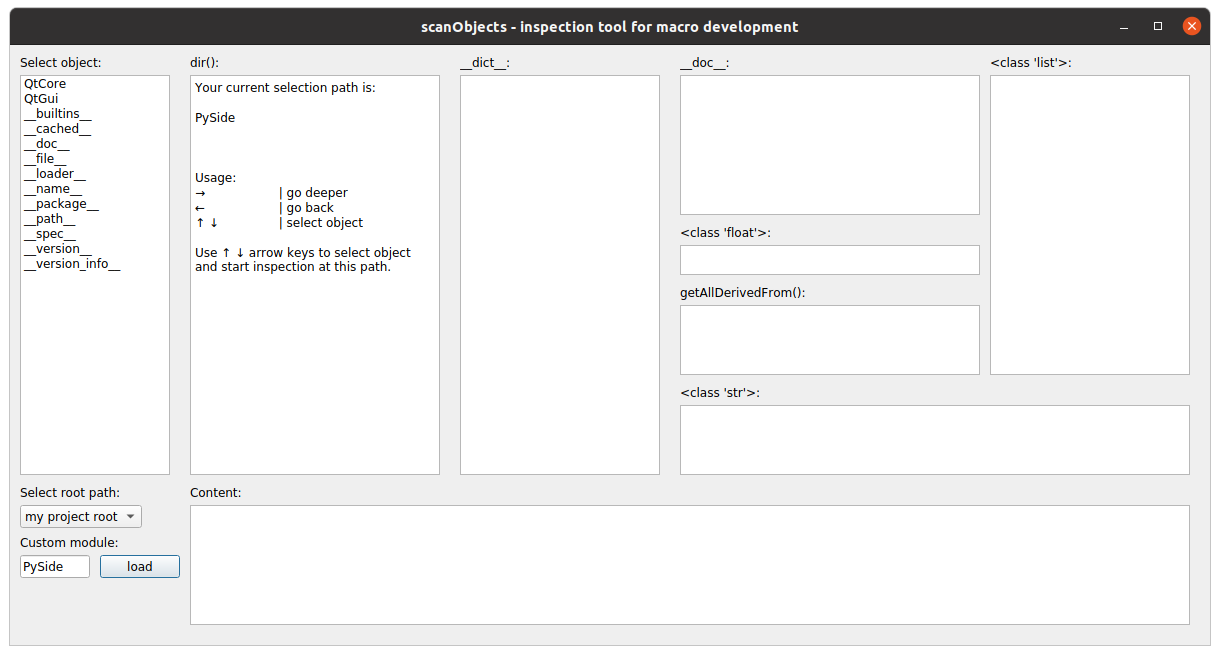
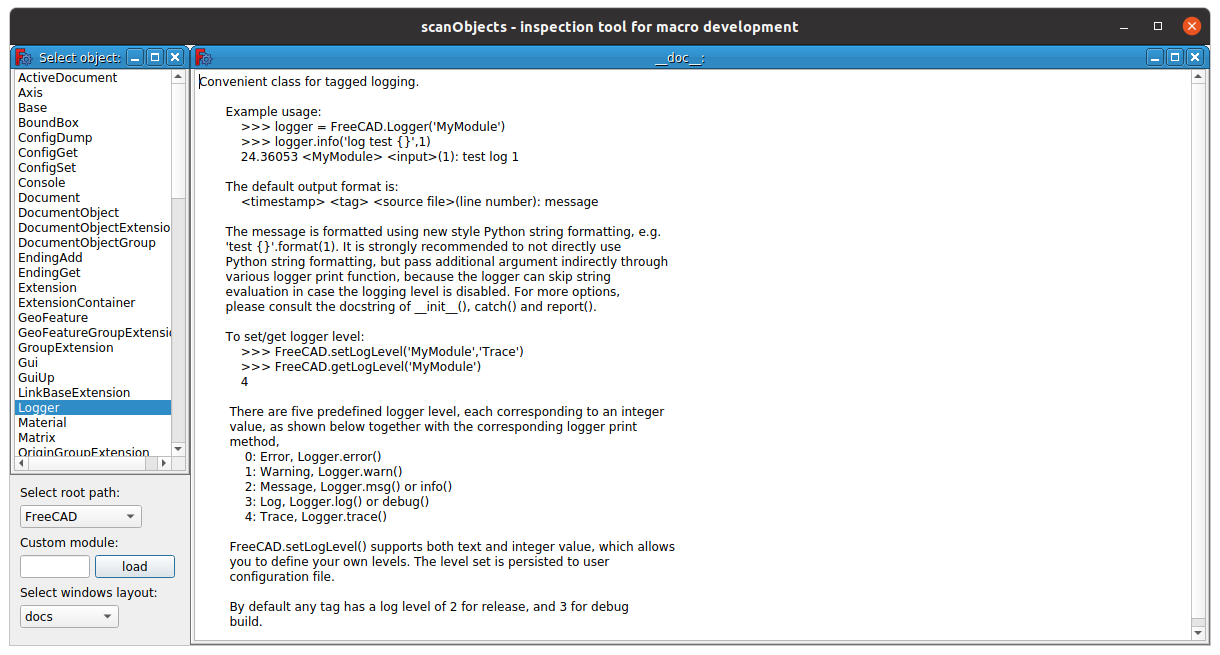
subwindows layout

diff --git a/scanObjects.py b/scanObjects.py
@@ -2,7 +2,7 @@
 
 # Inspection tool for FreeCAD macro development.
 # Author: Darek L (aka dprojects)
-# Version: 2.2
+# Version: 2.3
 # Latest version: https://github.com/dprojects/scanObjects
 
 import FreeCAD
@@ -28,7 +28,11 @@ def showQtGUI():
 		dbSI = -1 # index
 		dbSP = [] # path
 		dbSLI = [] # last index
+
+		# globals
 		defaultRoot = ""
+		gW = 1200 # width
+		gH = 600 # hight
 
 		# ############################################################################
 		# init
@@ -49,7 +53,7 @@ def showQtGUI():
 
 			# window
 			self.result = userCancelled
-			self.setGeometry(10, 10, 1200, 600)
+			self.setGeometry(10, 10, self.gW, self.gH)
 			self.setWindowTitle("scanObjects - inspection tool for macro development")
 			self.setWindowFlags(QtCore.Qt.WindowStaysOnTopHint)
 
@@ -57,14 +61,11 @@ def showQtGUI():
 			# selection view
 			# ############################################################################
 
-			# label
-			self.objectsL = QtGui.QLabel("Select object:", self)
-			self.objectsL.move(10, 10)
-			
-			self.list = QtGui.QListView(self)
-			self.list.setMinimumSize(150, 400)
-			self.list.setMaximumSize(150, 400)
-			self.list.move(10, 30)
+			self.list = QtGui.QListView()
+			self.listsw = QtGui.QMdiSubWindow(self)
+			self.listsw.setWindowTitle("Select object:")
+			self.listsw.setGeometry(0, 0, 180, 430)
+			self.listsw.setWidget(self.list)
 
 			# ############################################################################
 			# select root path
@@ -112,111 +113,109 @@ def showQtGUI():
 			# button
 			self.rootCLoad = QtGui.QPushButton("load", self)
 			self.rootCLoad.clicked.connect(self.loadCustomModule)
-			self.rootCLoad.move(90, 510)
+			self.rootCLoad.move(85, 510)
+
+			# ############################################################################
+			# select windows layout
+			# ############################################################################
+
+			# label
+			self.layL = QtGui.QLabel("Select windows layout:", self)
+			self.layL.move(10, 540)
+			
+			# options
+			self.layList = (
+				"all windows",
+				"content", 
+				"docs", 
+				"array"
+			)
+
+			self.layO = QtGui.QComboBox(self)
+			self.layO.addItems(self.layList)
+			self.layO.setCurrentIndex(self.layList.index("all windows"))
+			self.layO.activated[str].connect(self.setWindowsLayout)
+			self.layO.move(10, 560)
 
 			# ############################################################################
 			# output 1
 			# ############################################################################
 
-			# label
-			self.o1L = QtGui.QLabel("dir():", self)
-			self.o1L.move(180, 10)
-			
-			self.o1 = QtGui.QTextEdit(self)
-			self.o1.setMinimumSize(250, 400)
-			self.o1.setMaximumSize(250, 400)
-			self.o1.move(180, 30)
+			self.o1 = QtGui.QTextEdit()
+			self.o1sw = QtGui.QMdiSubWindow(self)
+			self.o1sw.setWindowTitle("dir(): & Help Window")
+			self.o1sw.setGeometry(180, 0, 260, 430)
+			self.o1sw.setWidget(self.o1)
 
 			# ############################################################################
 			# output 2
 			# ############################################################################
-
-			# label
-			self.o2L = QtGui.QLabel("__dict__:", self)
-			self.o2L.move(450, 10)
 			
-			self.o2 = QtGui.QTextEdit(self)
-			self.o2.setMinimumSize(200, 400)
-			self.o2.setMaximumSize(200, 400)
-			self.o2.move(450, 30)
-
+			self.o2 = QtGui.QTextEdit()
+			self.o2sw = QtGui.QMdiSubWindow(self)
+			self.o2sw.setWindowTitle("__dict__:")
+			self.o2sw.setGeometry(440, 0, 220, 430)
+			self.o2sw.setWidget(self.o2)
+			
 			# ############################################################################
 			# output 3
 			# ############################################################################
 
-			# label
-			self.o3L = QtGui.QLabel("__doc__:", self)
-			self.o3L.move(670, 10)
-			
-			self.o3 = QtGui.QTextEdit(self)
-			self.o3.setMinimumSize(300, 140)
-			self.o3.setMaximumSize(300, 140)
-			self.o3.move(670, 30)
+			self.o3 = QtGui.QTextEdit()
+			self.o3sw = QtGui.QMdiSubWindow(self)
+			self.o3sw.setWindowTitle("__doc__:")
+			self.o3sw.setGeometry(660, 0, 320, 150)
+			self.o3sw.setWidget(self.o3)
 
 			# ############################################################################
 			# output 4
 			# ############################################################################
 
-			# label
-			self.o4L = QtGui.QLabel("getAllDerivedFrom():", self)
-			self.o4L.move(670, 240)
-			
-			self.o4 = QtGui.QTextEdit(self)
-			self.o4.setMinimumSize(300, 70)
-			self.o4.setMaximumSize(300, 70)
-			self.o4.move(670, 260)
+			self.o4 = QtGui.QTextEdit()
+			self.o4sw = QtGui.QMdiSubWindow(self)
+			self.o4sw.setWindowTitle("getAllDerivedFrom():")
+			self.o4sw.setGeometry(660, 230, 320, 100)
+			self.o4sw.setWidget(self.o4)
 
 			# ############################################################################
 			# output 5
 			# ############################################################################
 
-			# label
-			self.o5L = QtGui.QLabel("Content:", self)
-			self.o5L.move(180, 440)
-			
-			self.o5 = QtGui.QTextEdit(self)
-			self.o5.setMinimumSize(1000, 120)
-			self.o5.setMaximumSize(1000, 120)
-			self.o5.move(180, 460)
+			self.o5 = QtGui.QTextEdit()
+			self.o5sw = QtGui.QMdiSubWindow(self)
+			self.o5sw.setWindowTitle("Content & Error Console:")
+			self.o5sw.setGeometry(180, 430, 1020, 170)
+			self.o5sw.setWidget(self.o5)
 
 			# ############################################################################
 			# output 6
 			# ############################################################################
 
-			# label
-			self.o6L = QtGui.QLabel("<class 'str'>:", self)
-			self.o6L.move(670, 340)
-			
-			self.o6 = QtGui.QTextEdit(self)
-			self.o6.setMinimumSize(510, 70)
-			self.o6.setMaximumSize(510, 70)
-			self.o6.move(670, 360)
+			self.o6 = QtGui.QTextEdit()
+			self.o6sw = QtGui.QMdiSubWindow(self)
+			self.o6sw.setWindowTitle("<class 'str'>:")
+			self.o6sw.setGeometry(660, 330, 540, 100)
+			self.o6sw.setWidget(self.o6)
 
 			# ############################################################################
 			# output 7
 			# ############################################################################
 
-			# label
-			self.o7L = QtGui.QLabel("<class 'float'>:", self)
-			self.o7L.move(670, 180)
-			
-			self.o7 = QtGui.QTextEdit(self)
-			self.o7.setMinimumSize(300, 30)
-			self.o7.setMaximumSize(300, 30)
-			self.o7.move(670, 200)
+			self.o7 = QtGui.QTextEdit()
+			self.o7sw = QtGui.QMdiSubWindow(self)
+			self.o7sw.setWindowTitle("<class 'float'>:")
+			self.o7sw.setGeometry(660, 150, 320, 80)
+			self.o7sw.setWidget(self.o7)
 
 			# ############################################################################
 			# output 8
 			# ############################################################################
 
-			# label
-			self.o8L = QtGui.QLabel("<class 'list'>:", self)
-			self.o8L.move(980, 10)
-			
-			self.o8 = QtGui.QTextEdit(self)
-			self.o8.setMinimumSize(200, 300)
-			self.o8.setMaximumSize(200, 300)
-			self.o8.move(980, 30)
+			self.o8 = QtGui.QTextEdit()
+			self.o8sw = QtGui.QMdiSubWindow(self)
+			self.o8sw.setWindowTitle("<class 'list'>:")
+			self.o8sw.setGeometry(980, 0, 220, 330)
+			self.o8sw.setWidget(self.o8)
 
 			# ############################################################################
 			# keyboard keys
@@ -240,6 +239,111 @@ def showQtGUI():
 		# ############################################################################
 		# functions
 		# ############################################################################
+
+		def setWindowsLayout(self, selectedText):
+
+			if selectedText == "all windows":
+				self.listsw.setGeometry(0, 0, 180, 430)
+				self.listsw.show()
+				self.list.show()
+				self.o1sw.setGeometry(180, 0, 260, 430)
+				self.o1sw.show()
+				self.o1.show()
+				self.o2sw.setGeometry(440, 0, 220, 430)
+				self.o2sw.show()
+				self.o2.show()
+				self.o3sw.setGeometry(660, 0, 320, 150)
+				self.o3sw.show()
+				self.o3.show()
+				self.o4sw.setGeometry(660, 230, 320, 100)
+				self.o4sw.show()
+				self.o4.show()
+				self.o5sw.setGeometry(180, 430, 1020, 170)
+				self.o5sw.show()
+				self.o5.show()
+				self.o6sw.setGeometry(660, 330, 540, 100)
+				self.o6sw.show()
+				self.o6.show()
+				self.o7sw.setGeometry(660, 150, 320, 80)
+				self.o7sw.show()
+				self.o7.show()
+				self.o8sw.setGeometry(980, 0, 220, 330)
+				self.o8sw.show()
+				self.o8.show()
+
+			if selectedText == "content":
+				self.listsw.setGeometry(0, 0, 180, 430)
+				self.listsw.show()
+				self.list.show()
+
+				self.o1sw.hide()
+				self.o1.hide()
+				self.o2sw.hide()
+				self.o2.hide()
+				self.o3sw.hide()
+				self.o3.hide()
+				self.o4sw.hide()
+				self.o4.hide()
+
+				self.o5sw.setGeometry(180, 0, 1020, 600)
+				self.o5sw.show()
+				self.o5.show()
+
+				self.o6sw.hide()
+				self.o6.hide()
+				self.o7sw.hide()
+				self.o7.hide()
+				self.o8sw.hide()
+				self.o8.hide()
+
+			if selectedText == "docs":
+				self.listsw.setGeometry(0, 0, 180, 430)
+				self.listsw.show()
+				self.list.show()
+
+				self.o1sw.hide()
+				self.o1.hide()
+				self.o2sw.hide()
+				self.o2.hide()
+
+				self.o3sw.setGeometry(180, 0, 1020, 600)
+				self.o3sw.show()
+				self.o3.show()
+
+				self.o4sw.hide()
+				self.o4.hide()
+				self.o5sw.hide()
+				self.o5.hide()
+				self.o6sw.hide()
+				self.o6.hide()
+				self.o7sw.hide()
+				self.o7.hide()
+				self.o8sw.hide()
+				self.o8.hide()
+
+			if selectedText == "array":
+				self.listsw.setGeometry(0, 0, 180, 430)
+				self.listsw.show()
+				self.list.show()
+
+				self.o1sw.hide()
+				self.o1.hide()
+				self.o2sw.hide()
+				self.o2.hide()
+				self.o3sw.hide()
+				self.o3.hide()
+				self.o4sw.hide()
+				self.o4.hide()
+				self.o5sw.hide()
+				self.o5.hide()
+				self.o6sw.hide()
+				self.o6.hide()
+				self.o7sw.hide()
+				self.o7.hide()
+
+				self.o8sw.setGeometry(180, 0, 1020, 600)
+				self.o8sw.show()
+				self.o8.show()
 
 		def showError(self, iError):
 		
